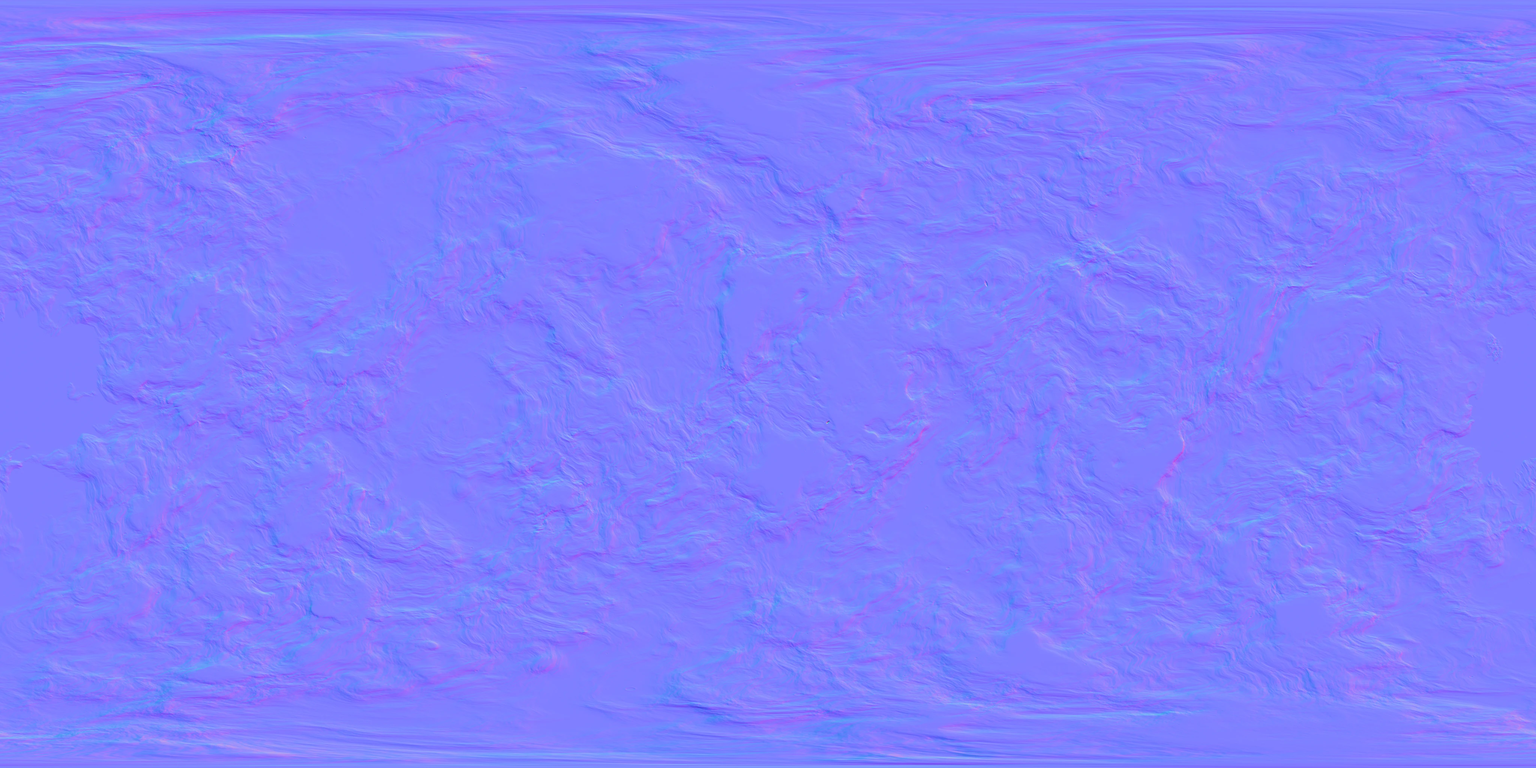
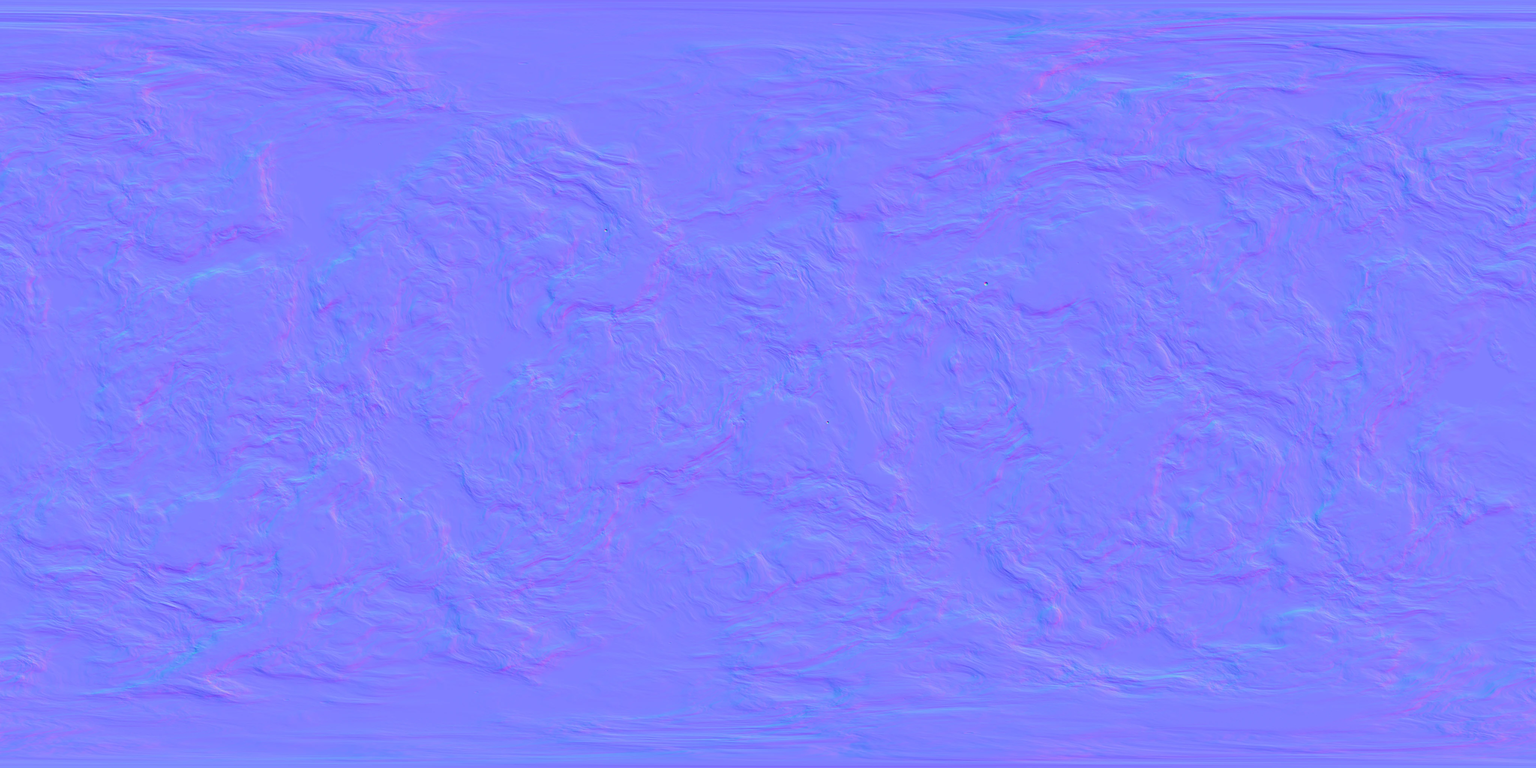
Didymus: rebuild both twins' textures; softer lakes, visible anchor craters
Lakes get a soft dark core and a wider graded olive fringe. The twin's large
craters get a sharper wall and rim in the height map (the shared relief was too
gentle to shade at disc scale) and a soft dust-filled floor.

Claude-Session: https://claude.ai/code/session_01K8R5kqduobr76DoBg9xGr3

diff --git a/tools/planets/didymus.py b/tools/planets/didymus.py
@@ -276,6 +276,7 @@ def generate(slug: str, m: dict, width: int, out_root: Path) -> None:
     crat = np.zeros(g.lat.shape, np.float32)
     rimc = np.zeros(g.lat.shape, np.float32)
     cfloor = np.zeros(g.lat.shape, np.float32)  # dust-filled floors of the large craters
+    acrat = np.zeros(g.lat.shape, np.float32)  # their sharper relief, added to the height map
     streak = np.zeros(g.lat.shape, np.float32)  # downwind tails
     for i, (la, lo, r) in enumerate(zip(clat, clon, crad)):
         reach = r * 9 + 1
@@ -286,11 +287,13 @@ def generate(slug: str, m: dict, width: int, out_root: Path) -> None:
         t = d / r
         wob = 1 + 0.12 * fbm(n[9], ps * (40 / max(r, 0.6)) + la, 3)
         tw = t * wob
-        depth = 0.05 + 0.01 * r if i < k else 0.09 + 0.012 * r
+        depth = 0.05 + 0.01 * r if i < k else 0.13 + 0.018 * r
         crat[sub] += (-(1 - np.minimum(tw, 1) ** 2) * (tw < 1) * 0.6 + 0.15 * np.exp(-(((tw - 1) / 0.4) ** 2))) * depth
         rimc[sub] = np.maximum(rimc[sub], np.exp(-(((tw - 1) / 0.4) ** 2)))
         if i >= k:
-            cfloor[sub] = np.maximum(cfloor[sub], smoothstep(1.0, 0.1, tw))
+            cfloor[sub] = np.maximum(cfloor[sub], smoothstep(1.1, 0.1, tw))
+            # Flat dust floor, a steep wall, a low soft rim: enough slope to shade at disc scale.
+            acrat[sub] += -smoothstep(1.0, 0.7, tw) + 0.3 * np.exp(-(((tw - 1.05) / 0.2) ** 2))
         # Wind streak: a tapering tail downwind, as long as several crater widths.
         b = wind_bearing(la) + 0.25 * rng.normal()
         lx = np.degrees(np.arcsin(np.clip(ps @ ce, -1, 1)))
@@ -398,8 +401,8 @@ def generate(slug: str, m: dict, width: int, out_root: Path) -> None:
     char = ramp(ctone, m["char"])
     rgb = rgb * (1 - 0.92 * burned[..., None]) + char * 0.92 * burned[..., None]
     # The large craters' floors: dust laid in them, pale on dark ground, so they stand out.
-    cf = (cfloor * (0.15 + 0.4 * burned))[..., None]
-    rgb = rgb * (1 - cf) + dust * 0.85 * cf
+    cf = (cfloor * (0.25 + 0.35 * burned))[..., None]
+    rgb = rgb * (1 - cf) + dust * 0.95 * cf
     # Crater rims barely paler; wind streaks pale on dark ground (dust laid in the lee) and
     # dark on pale ground (dust scoured away).
     rgb = rgb * (1 + 0.04 * rimc[..., None])
@@ -422,10 +425,10 @@ def generate(slug: str, m: dict, width: int, out_root: Path) -> None:
         d = angular_distance(g, la, lo)[sub]
         jag = r * 0.12 * fbm(n[4], ps * (25 / r) + lo, 4)
         lob = r * 0.15 * fbm(n[5], ps * (6 / r) + la, 3)  # a little out of round
-        water[sub] = np.maximum(water[sub], smoothstep(0.5 * r, 0.3 * r, d + jag + lob))
+        water[sub] = np.maximum(water[sub], smoothstep(0.6 * r, 0.2 * r, d + jag + lob))
         patches = smoothstep(-0.3, 0.3, fbm(n[6], ps * (20 / r) + lo, 3))
-        fringe = smoothstep(2.4 * r, 0.4 * r, d + 4 * jag + 2 * lob)
-        green[sub] = np.maximum(green[sub], fringe * (0.5 + 0.5 * patches) * (0.4 + 0.6 * smoothstep(1.6 * r, 0.6 * r, d)))
+        fringe = smoothstep(3.4 * r, 0.5 * r, d + 4 * jag + 2 * lob)
+        green[sub] = np.maximum(green[sub], fringe * (0.6 + 0.4 * patches) * (0.5 + 0.5 * smoothstep(2.2 * r, 0.7 * r, d)))
     # Whidmore's farms: a few small centre-pivot circles, pale olive, some fallow.
     pivots = np.zeros(g.lat.shape, np.float32)
     fallow = np.zeros(g.lat.shape, np.float32)
@@ -498,7 +501,7 @@ def generate(slug: str, m: dict, width: int, out_root: Path) -> None:
     # tiny differences into steps that shaded as cliffs.
     lo_, hi_ = np.percentile(h, [0.5, 99.5])
     hn = np.clip((h - lo_) / (hi_ - lo_), 0, 1)
-    height = np.clip(hn * (1 - water) + 0.01 * pivots + 0.006 * gibber * calm[..., 0], 0, 1)
+    height = np.clip(hn * (1 - water) + 0.25 * acrat + 0.01 * pivots + 0.006 * gibber * calm[..., 0], 0, 1)
     out = out_root / slug
     out.mkdir(parents=True, exist_ok=True)
     save_rgb(out / "albedo.webp", rgb)
